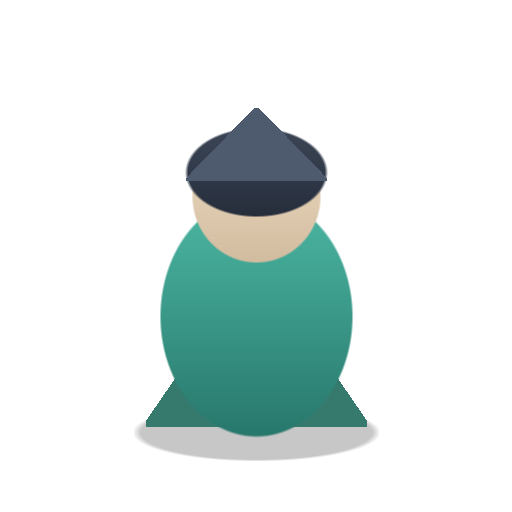
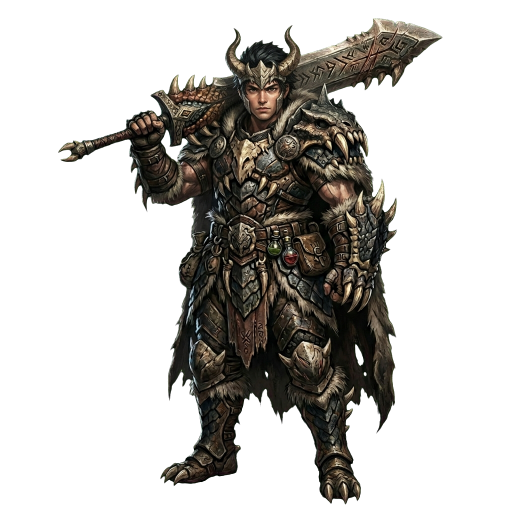
ハンターの本番アートを反映（緑背景を透過化して配置）
- tools/chroma-key.mjs: 緑背景のクロマキー除去＋緑スピル抑制＋2x縮小で
  透過PNG化する依存なしツール。
- 生成したハンター画像を public/img/hunter.png として配置（512x512透過）。
  マップ・戦闘の両方でハンターが画像表示に。

Claude-Session: https://claude.ai/code/session_015rdLcEBtYgPbuZkwCt5fq7

diff --git a/docs/sw.js b/docs/sw.js
@@ -1,1 +1,1 @@
-if(!self.define){let e,i={};const n=(n,s)=>(n=new URL(n+".js",s).href,i[n]||new Promise(i=>{if("document"in self){const e=document.createElement("script");e.src=n,e.onload=i,document.head.appendChild(e)}else e=n,importScripts(n),i()}).then(()=>{let e=i[n];if(!e)throw new Error(`Module ${n} didn’t register its module`);return e}));self.define=(s,r)=>{const o=e||("document"in self?document.currentScript.src:"")||location.href;if(i[o])return;let t={};const l=e=>n(e,o),a={module:{uri:o},exports:t,require:l};i[o]=Promise.all(s.map(e=>a[e]||l(e))).then(e=>(r(...e),t))}}define(["./workbox-e4022e15"],function(e){"use strict";self.skipWaiting(),e.clientsClaim(),e.precacheAndRoute([{url:"manifest.webmanifest",revision:"326e70762857af7bf5ade84983725930"},{url:"index.html",revision:"6344fed9431e5c0fafd9ab0cf89f3251"},{url:"icon.svg",revision:"8f7616d7b352be480dabad5295279c11"},{url:"img/hunter.png",revision:"e9192da333be131b196cb6650ab496aa"},{url:"img/monsters/rathalos.png",revision:"4c8df57a2d4876b7a13929799b89c3e2"},{url:"img/monsters/jaggi.png",revision:"c04f13992242a2f983f909c30b324f15"},{url:"assets/workbox-window.prod.es5-BBnX5xw4.js",revision:null},{url:"assets/index-D0FV_2kb.css",revision:null},{url:"assets/index-CUdIoibq.js",revision:null},{url:"icon.svg",revision:"8f7616d7b352be480dabad5295279c11"},{url:"manifest.webmanifest",revision:"326e70762857af7bf5ade84983725930"}],{}),e.cleanupOutdatedCaches(),e.registerRoute(new e.NavigationRoute(e.createHandlerBoundToURL("index.html"))),e.registerRoute(({url:e})=>e.origin===self.location.origin,new e.NetworkFirst({cacheName:"mhoreka-runtime",plugins:[new e.ExpirationPlugin({maxEntries:60})]}),"GET")});
+if(!self.define){let e,i={};const n=(n,s)=>(n=new URL(n+".js",s).href,i[n]||new Promise(i=>{if("document"in self){const e=document.createElement("script");e.src=n,e.onload=i,document.head.appendChild(e)}else e=n,importScripts(n),i()}).then(()=>{let e=i[n];if(!e)throw new Error(`Module ${n} didn’t register its module`);return e}));self.define=(s,r)=>{const o=e||("document"in self?document.currentScript.src:"")||location.href;if(i[o])return;let t={};const l=e=>n(e,o),f={module:{uri:o},exports:t,require:l};i[o]=Promise.all(s.map(e=>f[e]||l(e))).then(e=>(r(...e),t))}}define(["./workbox-e4022e15"],function(e){"use strict";self.skipWaiting(),e.clientsClaim(),e.precacheAndRoute([{url:"manifest.webmanifest",revision:"326e70762857af7bf5ade84983725930"},{url:"index.html",revision:"6344fed9431e5c0fafd9ab0cf89f3251"},{url:"icon.svg",revision:"8f7616d7b352be480dabad5295279c11"},{url:"img/hunter.png",revision:"22b17f73e7253df56c50845f622b95e8"},{url:"img/monsters/rathalos.png",revision:"4c8df57a2d4876b7a13929799b89c3e2"},{url:"img/monsters/jaggi.png",revision:"c04f13992242a2f983f909c30b324f15"},{url:"assets/workbox-window.prod.es5-BBnX5xw4.js",revision:null},{url:"assets/index-D0FV_2kb.css",revision:null},{url:"assets/index-CUdIoibq.js",revision:null},{url:"icon.svg",revision:"8f7616d7b352be480dabad5295279c11"},{url:"manifest.webmanifest",revision:"326e70762857af7bf5ade84983725930"}],{}),e.cleanupOutdatedCaches(),e.registerRoute(new e.NavigationRoute(e.createHandlerBoundToURL("index.html"))),e.registerRoute(({url:e})=>e.origin===self.location.origin,new e.NetworkFirst({cacheName:"mhoreka-runtime",plugins:[new e.ExpirationPlugin({maxEntries:60})]}),"GET")});

diff --git a/docs/img/PROMPTS.md b/docs/img/PROMPTS.md
@@ -1,0 +1,47 @@
+# 画像生成プロンプト集（モホレカ用 / 狩猟アクション風）
+
+各画像は **正方形・背景透過PNG・512×512** が理想。生成後に同名で `public/img/` に置けば反映されます（対応表は README.md）。
+
+## 使い方
+1. 下の「共通スタイル」を毎回うしろに付ける（絵柄を統一するため）
+2. 各キャラの「説明」＋「共通スタイル」を生成AIに入力
+3. 透過にならないツールは白背景で出して remove.bg などで透過化
+4. 同じツール・同じスタイル指定・できれば同じシードで揃える
+
+> ⚠️ 著作権: 実在モンスター名やブランド名（Monster Hunter 等）は入れない。あくまで“狩猟アクションの世界観”のオリジナル創作として生成する。
+
+## 共通スタイル（毎回うしろに付ける）★モンハン感の肝
+```
+, semi-realistic painterly creature concept art, AAA monster-hunting action RPG aesthetic, gritty earthy color palette, highly detailed organic anatomy, detailed scales fur membranes and bone, dramatic cinematic rim lighting, fearsome and majestic, dynamic yet centered, full body, three-quarter view, single subject only, no other creatures, no ground, no rock base, isolated on plain transparent background, square 1:1, high detail game asset, no text, no watermark, no logo
+```
+
+ポイント:
+- `armor/weapon crafted from monster bone, scale, fur, fang`（素材で作った装備）
+- `semi-realistic painterly concept art`（半リアルの厚塗り）
+- `fearsome`（獰猛・かわいくしない）
+- `single subject only / no ground`（前回の“倒した獣＋岩”を防ぐ）
+
+## 完成プロンプト例（火竜＝rathalos.png）
+```
+a fearsome red fire wyvern, realistic dragon anatomy, large leathery membrane wings, sharp curved horns, armored scales, glowing orange eyes, fire glands, predatory roaring pose, semi-realistic painterly creature concept art, AAA monster-hunting action RPG aesthetic, gritty earthy color palette, highly detailed organic anatomy, detailed scales fur membranes and bone, dramatic cinematic rim lighting, fearsome and majestic, dynamic yet centered, full body, three-quarter view, single subject only, no other creatures, no ground, no rock base, isolated on plain transparent background, square 1:1, high detail game asset, no text, no watermark, no logo
+```
+
+---
+
+## ハンター
+- **hunter.png** — `a rugged monster hunter clad in layered armor forged from monster bone, carapace, scales and shaggy fur, asymmetric organic plating, fanged pauldrons and clawed gauntlets, wielding a massive ornate greatsword resting on the shoulder, tribal hunter silhouette, weathered and battle-worn, solo standing pose`
+
+## モンスター（→ monsters/ フォルダ）獰猛・半リアル飛竜
+- **jaggi.png** (ドスジャギィ) — `a vicious bipedal raptor wyvern, lean reptilian body, cream and tan scales, a bony red head crest, fanged maw, snarling pack-leader`
+- **fango.png** (ドスファンゴ) — `a monstrous tusked boar beast, massive curved tusks, bristly matted brown fur, armored hide, furious charging stance`
+- **rampos.png** (ドスランポス) — `a savage raptor wyvern, sleek green scales, powerful hind legs, sharp claws and fangs, fast predatory crouch`
+- **kut.png** (イャンクック) — `a large bird wyvern with huge fan-like ears, a heavy curved beak, beige feathered scaly hide, spreading wings, fierce screech`
+- **geryos.png** (ゲリョス) — `a sinister bird wyvern with a fleshy hood crest, sickly pink rubbery hide, toxic glands, glowing eyes, menacing lunge`
+- **garuga.png** (イャンガルルガ) — `a fierce black wolf-like bird wyvern, spiked plumage, scarred armored face, jagged fangs, aggressive predatory pose`
+- **rathian.png** (リオレイア) — `a deadly green female wyvern, venomous spiked tail, leathery membrane wings, armored scales, agile predatory stance`
+- **rathalos.png** (リオレウス) — `a fearsome red fire wyvern, large leathery wings, curved horns, armored scales, glowing orange eyes, roaring predatory pose`
+- **diablos.png** (ディアブロス) — `a massive horned desert wyvern, two enormous twisting black horns, sandy armored hide, brutal charging stance, sand bursts`
+- **kushala.png** (クシャルダオラ) — `a majestic silver steel elder dragon, metallic plated scales, tattered membrane wings, swirling wind aura, regal and fearsome`
+- **koryu.png** (古龍) — `an ancient ominous elder dragon, dark battle-scarred scales, glowing ember cracks, towering legendary presence, mythical menace`
+- **teostra.png** (テオ・テスカトル) — `a blazing lion-maned elder dragon, fiery flame mane, large membrane wings, embers and sparks, molten cracks, regal and burning`
+- **nergigante.png** (ネルギガンテ) — `a brutal black elder dragon bristling with regenerating white bone spikes, muscular armored body, savage glowing eyes, destructive pose`